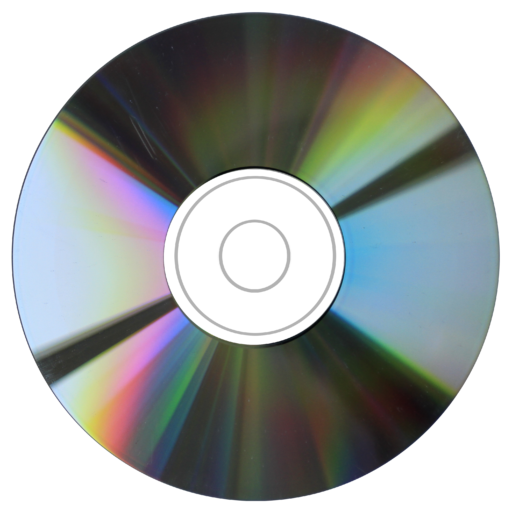
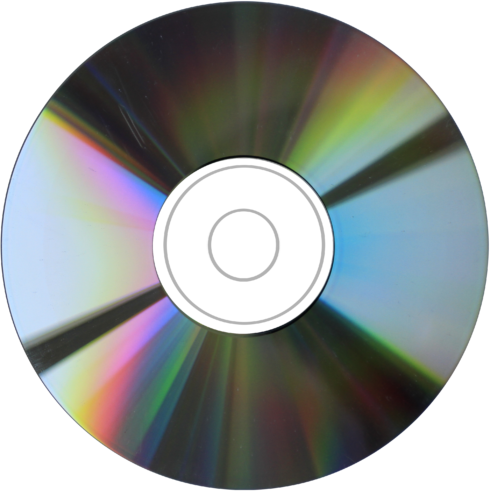
almost finished first view

diff --git a/website/src/views/Hero.js b/website/src/views/Hero.js
@@ -8,6 +8,7 @@ import Logo from "../assets/images/logo.png";
 import LogoName from "../assets/images/logoName.png";
 import Plastic from "../assets/images/plastic.jpg";
 import Clouds from "../assets/images/clouds.jpg";
+import LogoIcon from "../assets/images/icons/logo.png";
 
 const Wrapper = styled.div`
   background-image: url(${Clouds});
@@ -24,13 +25,15 @@ const Wrapper = styled.div`
     background-size: cover;
     opacity: 0.4;
     mix-blend-mode: screen;
+    pointer-events: none;
   }
 `;
 const BoxWrapper = styled.div`
   position: relative;
   display: inline-block;
-  width: 400px;
-  height: 400px;
+  max-width: 480px;
+  width: calc(100% - 2em);
+
   &:before {
     content: "";
     position: absolute;
@@ -58,33 +61,35 @@ const BoxWrapper = styled.div`
 `;
 const Box = styled.img`
   /* width: 100%; */
-  height: 100%;
-  width: auto;
-  position: absolute;
+  height: auto;
+  width: 100%;
+  /* position: absolute; */
   right: -2%;
   z-index: 999;
   top: 0%;
-  box-shadow: -5px 5px 20px rgba(0, 0, 0, 0.5);
+  box-shadow: -5px -10px 20px rgba(0, 0, 0, 0.5);
   pointer-events: none;
+  transform: rotateX(180deg);
 `;
 const CD = styled.img`
   display: inline-block
   border-radius: 50%;
-  max-height: 470px;
-  width: 100%;
-  height: auto;
+  
+  height: 95%;
+  width: auto;
+  right: 4%;
+  top: 2%;
   position: absolute;
-  right: 0;
-  box-shadow: 0 0 3px rgba(0, 0, 0, 0.5);
-  transform: rotateZ(306deg);
-
+  box-shadow: -3px  3px 10px rgba(0, 0, 0, 0.9);
+  transform: rotateZ(300deg);
+  filter: grayscale(0.2);
 `;
 const HeroImage = styled.img`
   position: absolute;
-  width: 75%;
+  width: 68%;
   height: auto;
   bottom: 10%;
-  right: 50%;
+  right: 48%;
   transform: translateX(50%);
   z-index: 999;
 `;
@@ -98,16 +103,17 @@ const Centered = styled.div`
 `;
 const TopBar = styled.div`
   position: absolute;
-  top: 0;
-  left: 0;
+  top: 2%;
+  left: 11%;
   background: #050608;
   height: 15%;
-  width: 100%;
+  width: 87%;
   box-shadow: 0px 5px 20px rgba(0, 0, 0, 0.5);
 `;
 const NPMLink = styled.a`
   display: inline-block;
   height: 100%;
+  width: 15%;
   position: absolute;
   top: 100%;
   left: 0;
@@ -115,11 +121,35 @@ const NPMLink = styled.a`
   box-shadow: 0px 5px 20px rgba(0, 0, 0, 0.5);
 `;
 const NPMImage = styled.img`
-  height: 40%;
-  width: auto;
+  width: 100%;
+  height: auto;
   position: relative;
   top: 50%;
   transform: translateY(-50%);
+  transition: 0s ease-in-out all;
+  &:hover {
+    transform: translateY(-50%) scale(1.05);
+  }
+`;
+const LibLink = styled.a`
+  display: inline-block;
+  height: 100%;
+  width: 15%;
+  position: absolute;
+  top: 0;
+  left: 0;
+  background: white;
+`;
+const LibImage = styled.img`
+  width: 60%;
+  height: auto;
+  position: relative;
+  top: 54%;
+  transform: translateY(-50%);
+  transition: 0s ease-in-out all;
+  &:hover {
+    transform: translateY(-50%) scale(1.05);
+  }
 `;
 export default function Hero() {
   return (
@@ -132,6 +162,9 @@ export default function Hero() {
             <NPMLink href="$">
               <NPMImage src={NPM} />
             </NPMLink>
+            <LibLink href="$">
+              <LibImage src={LogoIcon} />
+            </LibLink>
           </TopBar>
           <HeroImage src={LogoName} alt="React95 logo" />
         </BoxWrapper>
